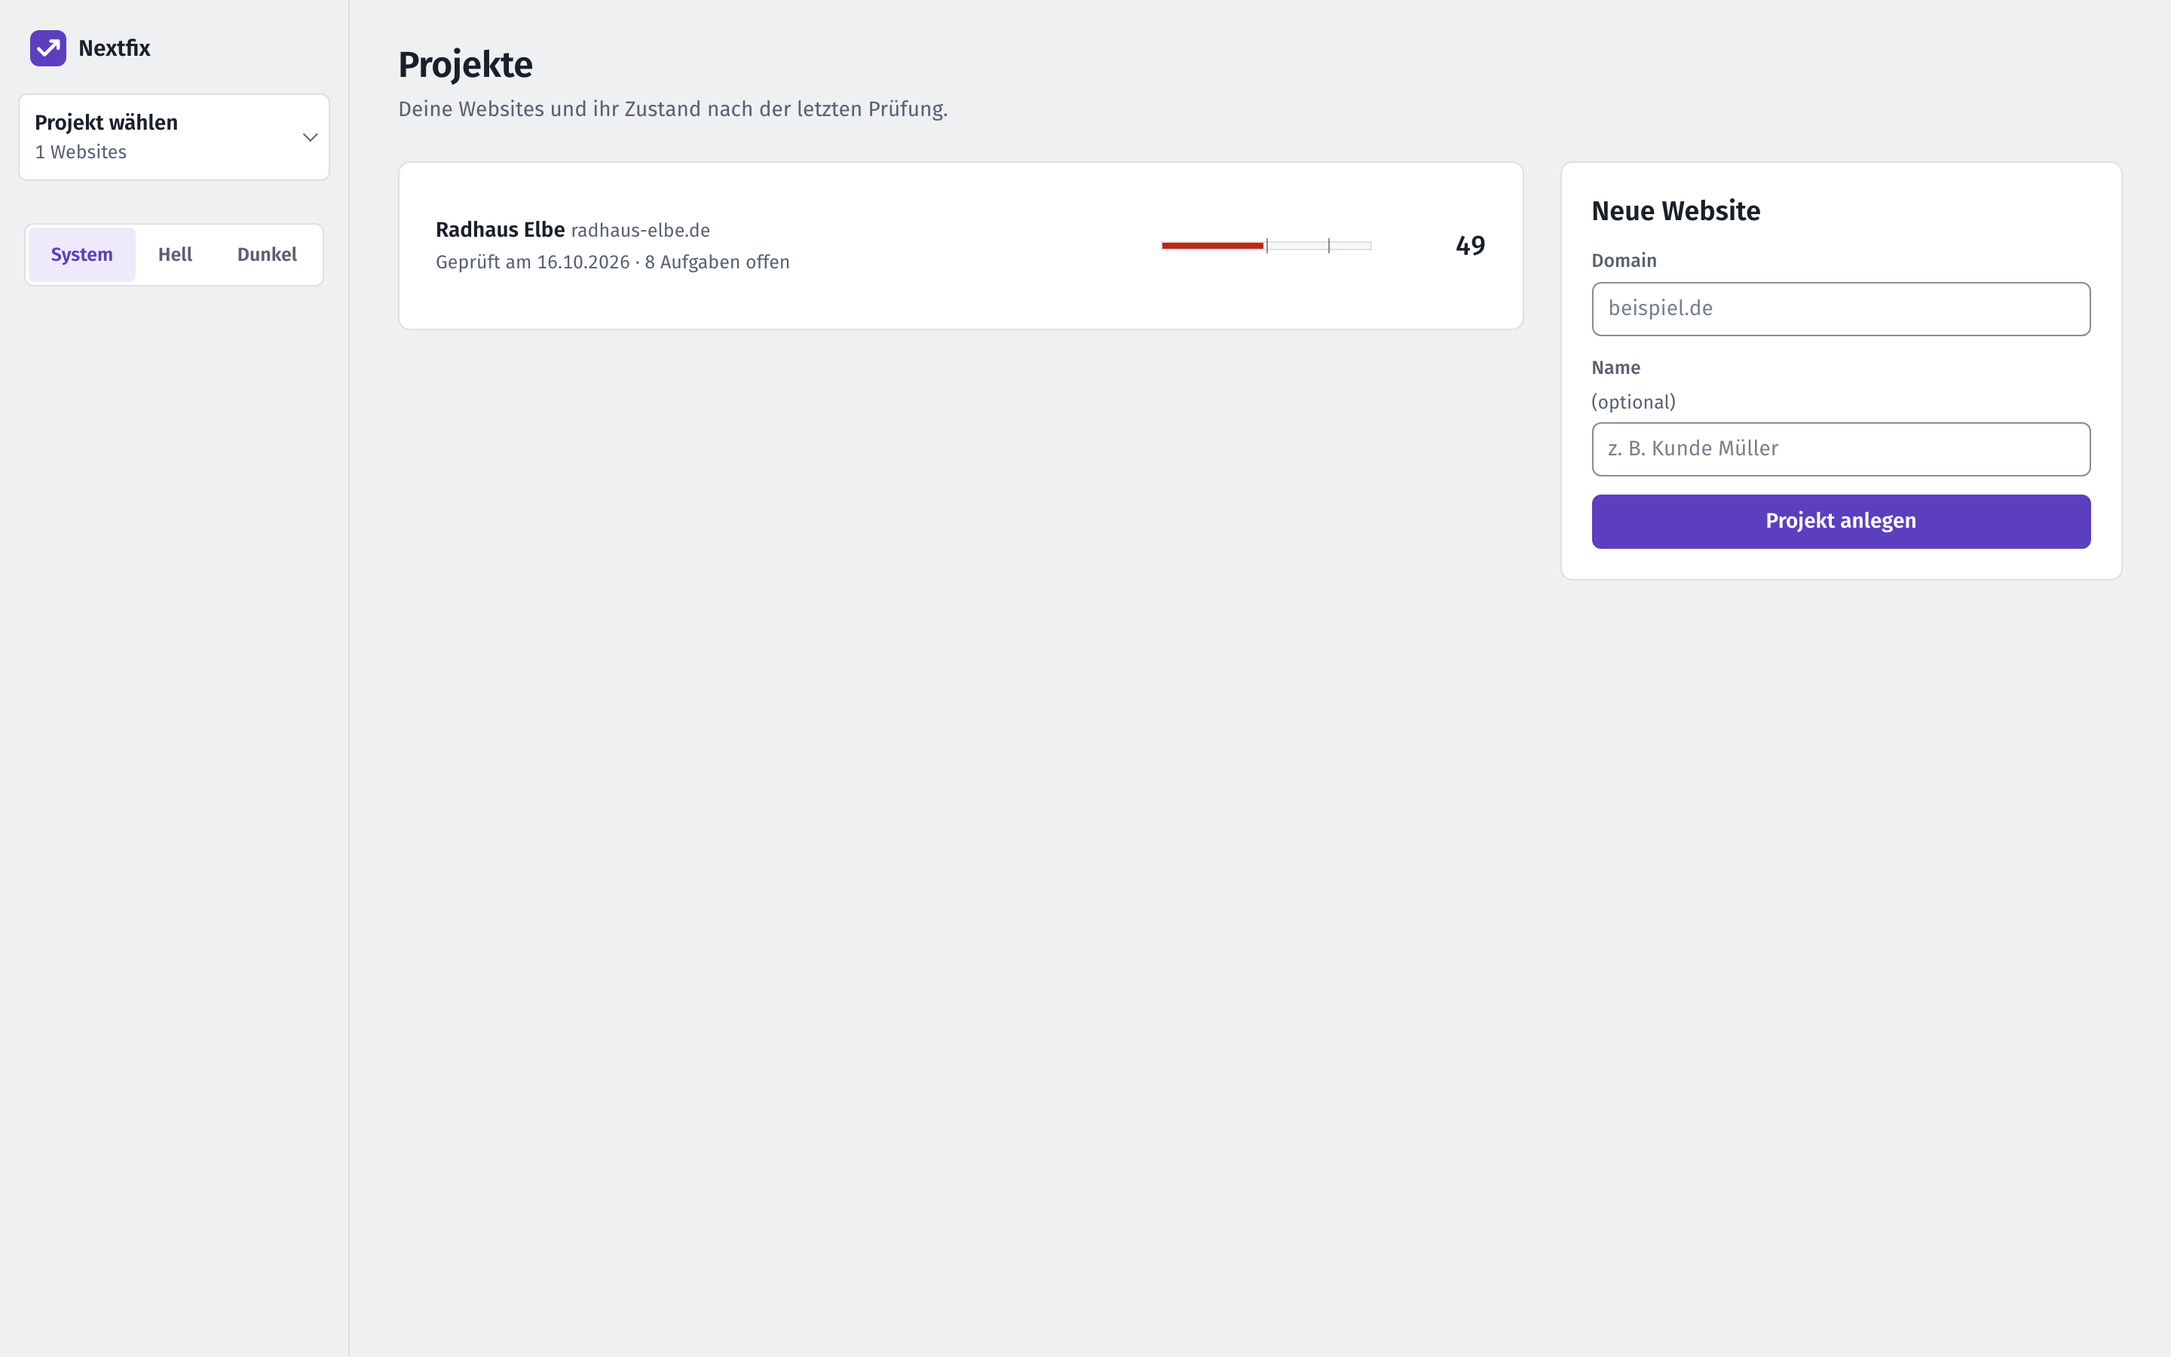
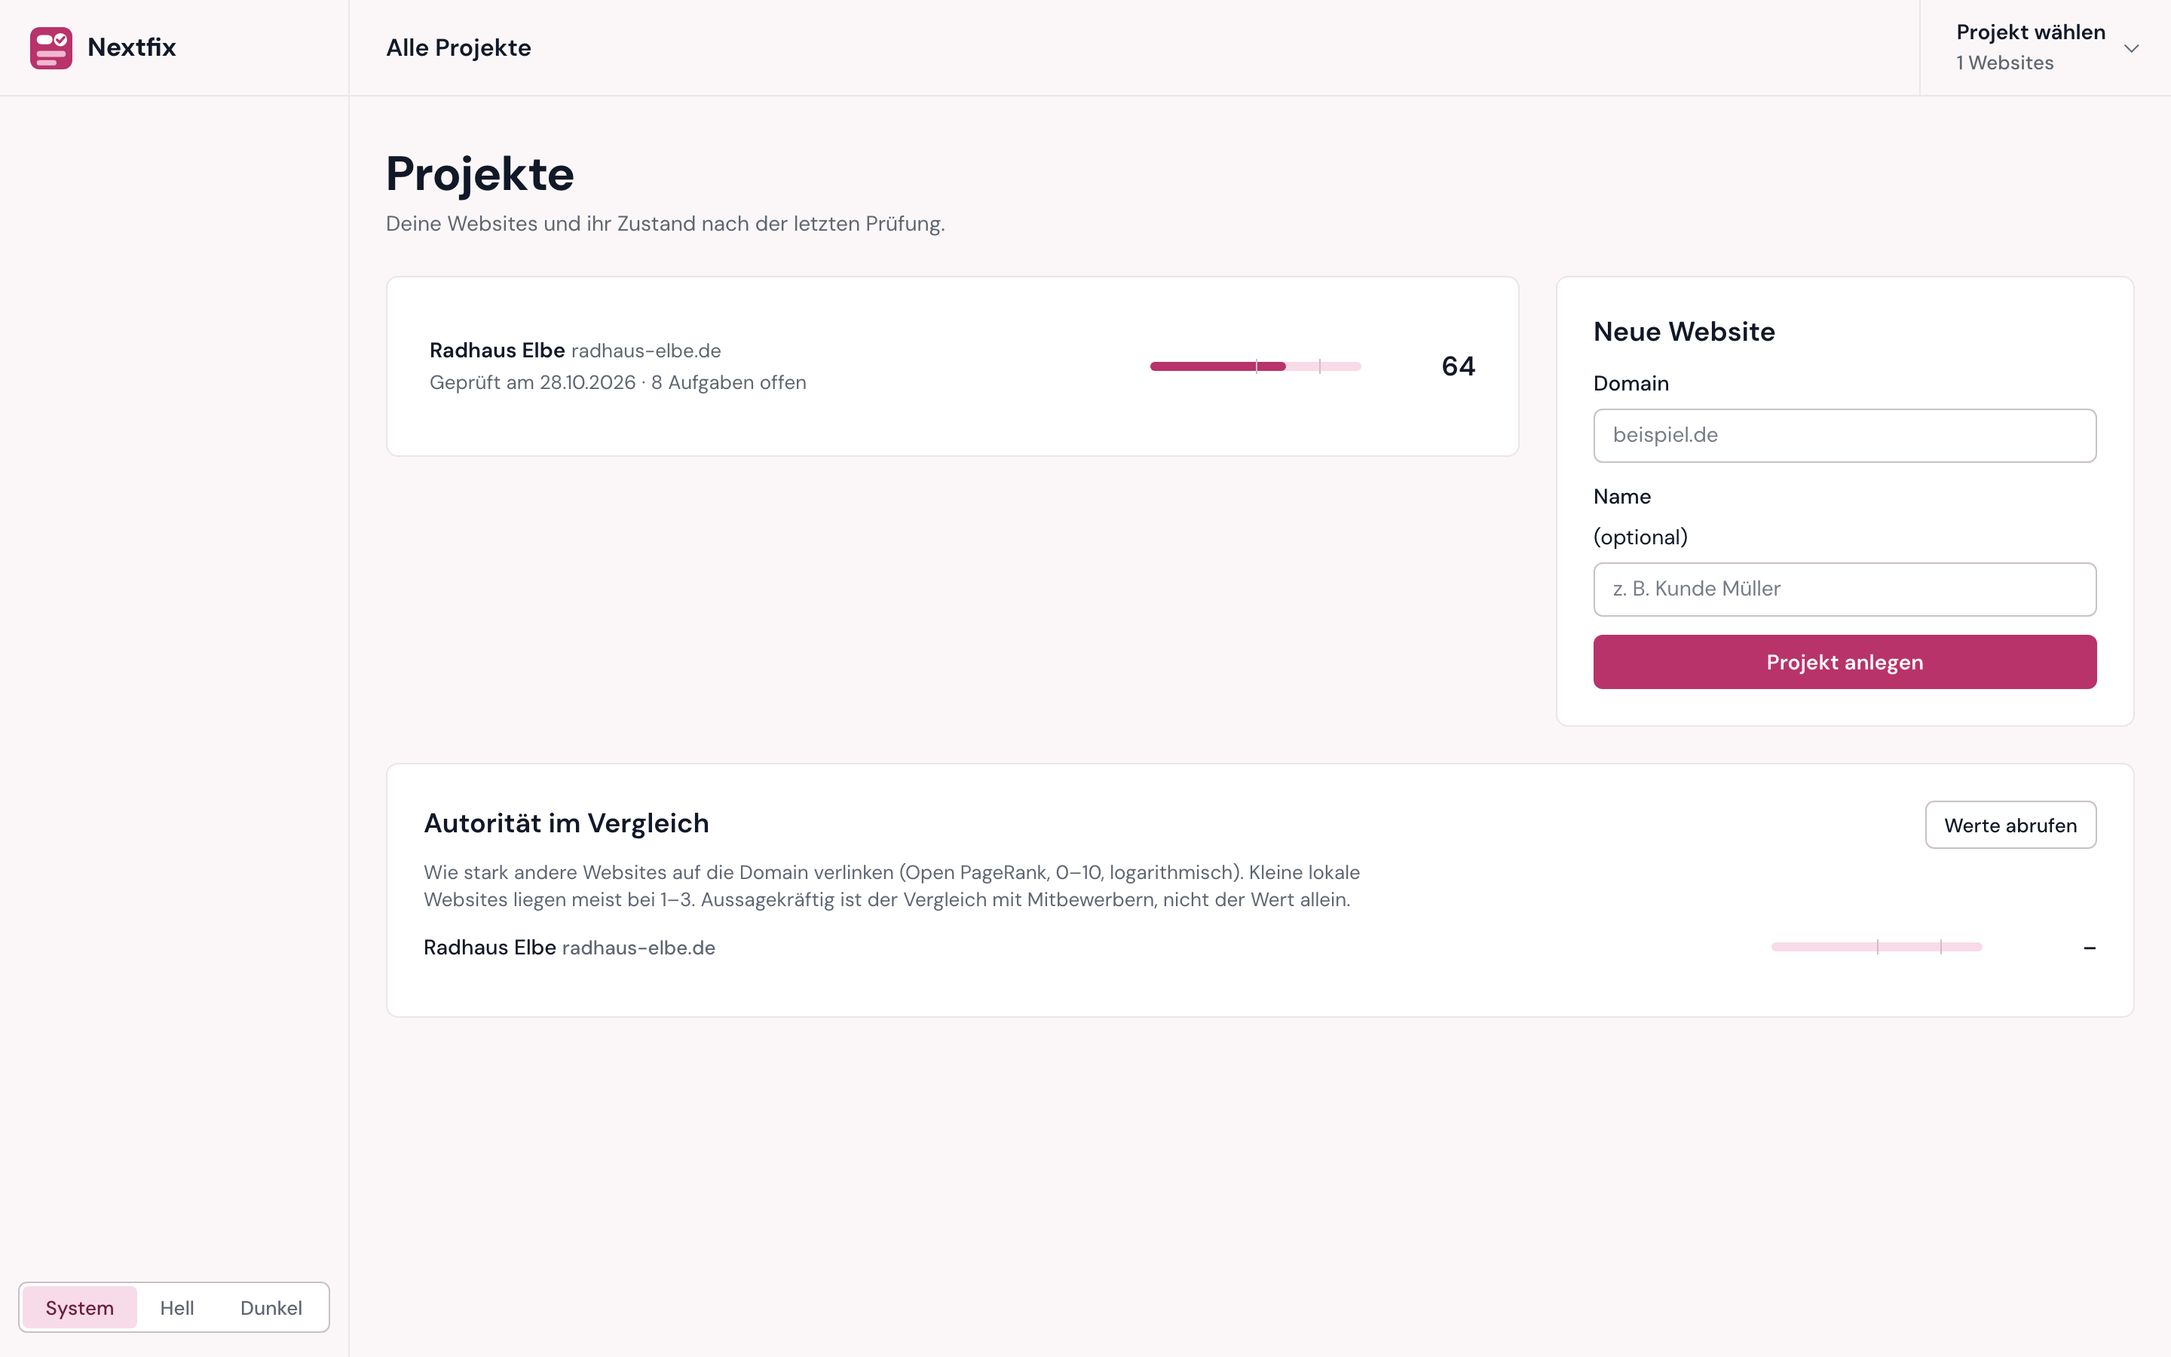
docs: new design system doc, changelog, regenerated README screenshots

diff --git a/docs/ui/design-system.md b/docs/ui/design-system.md
@@ -1,134 +1,34 @@
-# Design-System „Prüfstand“
+# Design-System „Akzent-Leiter“
 
-Stand: 16.10.2026 · Plan, noch nicht umgesetzt. Grundlage: `base.html`, `_uebersicht.html`, `issues.html`, `positionen.html`, `_onpage_ergebnis.html`, `vitals.html`.
+Eine Gestaltung für App, PDF-Bericht und Website. Quelle der Werte: `app/web/static/app.css` (Tokens ganz oben).
 
-## 1. Konzept
+## Idee
+- Die Markenfarbe **Himbeere `#b8336a`** steht nur auf kleinen Marken: der eine gefüllte Knopf, Datenbalken, der aktive Navigationspunkt (Punkt).
+- Flächen tragen die hellen Tints: `--akzent-flaeche` (Karten, Lead-Aufgabe), `--akzent-spur` (Spuren, aktive Navigationszeile), `--akzent-tinte` (Schrift darauf).
+- Signalfarben nur für Status, immer mit Form und Wort: ◆ dringend, ▲ wichtig, ● Feinschliff, ✓ gut. Keine Farbe pro Teilnote.
+- Kein Violett, kein Verlauf, kein Schatten im Ruhezustand (Schatten nur bei Menüs).
 
-Das Tool macht mit einer Website, was ein Prüfer mit einem Auto macht: messen, Mängel protokollieren, Grenzwerte zeigen, Plakette vergeben. Die Oberfläche sieht aus wie ein **ruhiges Messinstrument mit Prüfprotokoll**: Zahlen stehen auf Skalen mit sichtbaren Grenzwerten (nicht nur „73 %“, sondern *wo* die 80 liegt), Befunde lesen sich wie Protokollzeilen mit klarer Handlung. Der Akzent ist **Stempelviolett**, die Farbe der Prüfstempel, und gehört nur zu Aktionen und Auswahl, nie zu einem Status.
+## Tokens (hell / dunkel)
+| Token | hell | dunkel |
+| --- | --- | --- |
+| `--grund` | `#fbf7f8` | `#0e0e0f` |
+| `--flaeche` | `#ffffff` | `#161617` |
+| `--text` / `--gedaempft` | `#111827` / `#5f6672` | `#f4f4f5` / `#b4b4b8` |
+| `--linie` | `#ebe5e8` | `#2a2a2d` |
+| `--akzent` | `#b8336a` | `#e2759f` |
+| `--akzent-flaeche` / `--akzent-spur` | `#fdf2f7` / `#f8dbe8` | `#2a1520` / `#43202f` |
+| `--kritisch` / `--wichtig` / `--gut` | `#c4242a` / `#92400e` / `#247b50` | `#ff8f8a` / `#f0b25a` / `#52c78c` |
 
-## 2. Farben
+Dunkel ist neutrales Schwarzgrau mit derselben Leiter, kein Blau.
 
-Alle Werte mit Skript gerechnet (WCAG 2.1, Relativ-Luminanz). AA = 4,5:1 für Text, 3:1 für Bedienelemente/Icons.
+## Schrift
+**DM Sans**, lokal (`static/fonts/`, variabel, SIL OFL 1.1, `OFL-DM-Sans.txt`). Gewichte 400 bis 700; 700 nur für den Seitentitel. Größen: Titel 32 · Abschnitt 18 · Kennzahl 24 · Text 14 · klein 13. Tabellenzahlen tabellarisch. Monospace nur für Code und Pfade.
 
-| Token | Hell | Dunkel | Kontrast hell / dunkel |
-|---|---|---|---|
-| `--grund` (Seite, Seitenleiste) | `#EEF0F2` | `#14171D` | – |
-| `--flaeche` (Panels, Tabellen) | `#FFFFFF` | `#1C2028` | – |
-| `--flaeche-2` (Tabellenkopf, Hover) | `#F6F7F9` | `#242934` | – |
-| `--text` | `#1B1F2A` | `#E4E7EE` | 16,5 / 13,2 auf Fläche |
-| `--gedaempft` (Hilfstext, Achsen) | `#596070` | `#9BA2B1` | 6,3 / 6,4 (auf Grund 5,5 / 7,0) |
-| `--linie` (Trenner, nur deko) | `#DCDFE4` | `#323845` | 1,3 / 1,4 – bewusst schwach |
-| `--linie-stark` (Eingabefeld-Rand) | `#868D9A` | `#6E7687` | 3,3 / 3,6 ✓ 3:1 |
-| `--akzent` (Stempelviolett) | `#5B3FBF` | `#A897FF` | 7,2 / 6,6 |
-| `--akzent-flaeche` (Auswahl, aktiver Nav-Punkt) | `#EEEAFA` | `#2A2546` | Akzent darauf 6,1 / 5,9 |
-| `--auf-akzent` (Text auf Button) | `#FFFFFF` | `#14171D` | 7,2 / 7,3 |
-| `--kritisch` (bisher error) | `#C0261A` | `#FF7D6E` | 5,9 / 6,5 |
-| `--wichtig` (bisher warning) | `#985400` | `#EFB04A` | 5,8 / 8,5 |
-| `--hinweis` (bisher notice) | `#2D6688` | `#7FB5DA` | 6,2 / 7,4 |
-| `--gut` | `#1D7544` | `#5FCB8D` | 5,7 / 8,1 |
-| `--kritisch-flaeche` / `--wichtig-` / `--hinweis-` / `--gut-` | `#FBEAE8` `#FBF0DF` `#E6F0F6` `#E5F3EA` | `#3A2224` `#382D1C` `#1E2E3A` `#1C3127` | Statusfarbe darauf 5,1 / 5,2 / 5,4 / 5,0 bzw. 5,9 / 7,0 / 6,3 / 6,9 |
+## Rahmen
+Seitenleiste 232 px und Kopfleiste 64 px teilen einen Grund, getrennt nur durch 1-px-Linien. Kopfleiste: Domain links, Projektwahl rechts hinter einer Trennlinie. Auf dem Handy: 56 px, Menü-Knopf, Navigation klappt unter der Leiste auf.
 
-Regeln: Hinweis ist ein ruhiges Schieferblau, damit es nicht mit dem Violett der Aktionen verwechselt wird. Diagrammlinien: Hauptreihe `--akzent`, Vergleich `--gedaempft` gestrichelt. Kein Verlauf, keine Glow-Effekte.
+## Übersicht
+Lead-Block ist „Was jetzt tun“: die erste Aufgabe groß auf Tint-Fläche mit dem einzigen gefüllten Knopf, der Rest als Liste. Rechts eine Spalte (384 px): Website-Zustand als ruhige Zahl mit Spur (Striche bei 50 und 80), Teilnoten, Geprüfte Seiten.
 
-**Umschalter:** drei Zustände *System · Hell · Dunkel* als kleines Segment unten in der Seitenleiste. `data-theme` auf `<html>`, Wahl in `localStorage` (try/catch), Mini-Skript im `<head>` vor dem CSS gegen Aufblitzen.
-
-```css
-:root {
-  --grund:#EEF0F2; --flaeche:#FFFFFF; --flaeche-2:#F6F7F9; --text:#1B1F2A; --gedaempft:#596070;
-  --linie:#DCDFE4; --linie-stark:#868D9A; --akzent:#5B3FBF; --akzent-flaeche:#EEEAFA; --auf-akzent:#FFFFFF;
-  --kritisch:#C0261A; --wichtig:#985400; --hinweis:#2D6688; --gut:#1D7544;
-  --kritisch-flaeche:#FBEAE8; --wichtig-flaeche:#FBF0DF; --hinweis-flaeche:#E6F0F6; --gut-flaeche:#E5F3EA;
-  color-scheme: light;
-}
-@media (prefers-color-scheme: dark) { :root:not([data-theme="light"]) { /* = Block unten */ } }
-:root[data-theme="dark"] {
-  --grund:#14171D; --flaeche:#1C2028; --flaeche-2:#242934; --text:#E4E7EE; --gedaempft:#9BA2B1;
-  --linie:#323845; --linie-stark:#6E7687; --akzent:#A897FF; --akzent-flaeche:#2A2546; --auf-akzent:#14171D;
-  --kritisch:#FF7D6E; --wichtig:#EFB04A; --hinweis:#7FB5DA; --gut:#5FCB8D;
-  --kritisch-flaeche:#3A2224; --wichtig-flaeche:#382D1C; --hinweis-flaeche:#1E2E3A; --gut-flaeche:#1C3127;
-  color-scheme: dark;
-}
-```
-
-## 3. Schrift
-
-**Fira Sans** + **Fira Sans Condensed** (eine Familie, zwei Breiten), SIL OFL 1.1.
-- Von Erik Spiekermann (Berlin) aus der FF-Meta-Tradition: gebaut für Lesbarkeit auf Bildschirmen und in kleinen Größen, deutsche Typografie-Schule, saubere Umlaute und ß, ẞ im latin-ext-Teil.
-- Tabellarische Ziffern über `font-variant-numeric: tabular-nums` (Feature `tnum`) – nach Einbau mit einer Testzeile „111 / 888“ prüfen.
-- Condensed für dichte Tabellen (URL-Spalte, Kennzahlen-Spalten) und Skalen-Beschriftung: mehr Inhalt pro Zeile ohne Monospace-Look.
-
-**Quelle (fontsource über jsDelivr, einmal herunterladen, dann unter `app/web/static/fonts/` ausliefern):**
-`https://cdn.jsdelivr.net/npm/@fontsource/fira-sans@5.2.7/files/fira-sans-{subset}-{gewicht}-{stil}.woff2`
-`https://cdn.jsdelivr.net/npm/@fontsource/fira-sans-condensed@5.2.7/files/fira-sans-condensed-{subset}-{gewicht}-normal.woff2`
-- subset: `latin` (ä ö ü ß, ~24 KB je Datei) + `latin-ext` mit `unicode-range` (nur bei Bedarf geladen). URLs am 16.10. getestet (HTTP 200).
-- Benötigt: Fira Sans 400, 400-italic, 500, 600 · Condensed 400, 500. Zusammen ~150 KB. `font-display: swap`. Lizenzdatei `OFL.txt` mit ins Repo.
-
-**Skala** (Basis 14 px für die App, Verhältnis ~1,2):
-
-| Rolle | Größe / Zeile | Gewicht | Einsatz |
-|---|---|---|---|
-| Messwert groß | 44 / 48 | 500, tnum | nur Health auf der Übersicht |
-| Seitentitel | 24 / 30 | 600 | Projektname |
-| Abschnitt | 18 / 24 | 600 | „Was jetzt tun“, „Je Seite“ |
-| Kennzahl | 28 / 32 | 500, tnum | Kennzahlen-Leiste |
-| Fließtext | 14 / 21 | 400 | Erklärungen, max. 72 Zeichen Breite |
-| Tabelle | 13 / 18 | 400, tnum | Condensed in URL- und Zahlen-Spalten |
-| Klein / Label | 12,5 / 16 | 500 | Feld-Labels, Achsen, Tabellenkopf – Satzschreibung, keine Versalien |
-
-## 4. Layout
-
-```
-┌────────────┬──────────────────────────────────────────────┐
-│ Projekt ▾  │ beispiel.de        Crawl vom 15.10., 214 Seiten │
-│            │──────────────────────────────────────────────│
-│ Website    │ [ Messskala Health ═════════|══▲═══ 73 ]     │
-│  Übersicht │ Kennzahlen-Leiste │ │ │ │                     │
-│  Befunde 42│──────────────────────────────────────────────│
-│  Seiten    │ Was jetzt tun (8 Spalten) │ Bereiche (4 Sp.) │
-│  Ladezeit  │                           │                  │
-│ Sichtbark. │                                              │
-│ Inhalt     │                                              │
-│ ◐ System   │                                              │
-└────────────┴──────────────────────────────────────────────┘
-```
-- **Seitenleiste** 232 px, gleiche Farbe wie `--grund` (kein dunkler Navy-Balken), Gruppen „Website prüfen“, „Sichtbarkeit“, „Inhalt“; Gruppentitel 12,5 px gedämpft. Aktiver Punkt: `--akzent-flaeche` + Text `--akzent`. Unter 900 px wird sie zur Kopfleiste mit Menü-Button.
-- **Inhalt** linksbündig, max. 1240 px, 12-Spalten-Raster, Spaltenabstand 24 px, Seitenrand 32 px (mobil 16 px).
-- **Abstände** (4er-Basis): 4 · 8 · 12 · 16 · 24 · 32 · 48. Innerhalb von Komponenten 8–16, zwischen Abschnitten 32–48.
-- **Radien mit Hierarchie:** Panel 8 px · Button/Feld 6 px · Status-Marke 3 px (gestempeltes Etikett, keine Pille) · Messskala 0 px (Instrument).
-- **Schatten:** nein. Trennung über Fläche gegen Grund + 1 px `--linie`. Einzige Ausnahme: Popover/Dialog `0 8px 24px rgb(20 23 29 / .18)`. Dunkel: höhere Ebene = hellere Fläche.
-
-## 5. Komponenten
-
-- **Kennzahl:** keine Einzelkarten. Eine Kennzahlen-Leiste = ein Panel, durch senkrechte Linien geteilt. Je Zelle: Label (12,5, gedämpft) · Wert (28, tnum) · Veränderung als Pfeil + Vorzeichen + Wort („▲ 3 besser“), Farbe gut/kritisch nur zusätzlich. Ø Position: kleiner = besser, Text sagt das.
-- **Tabelle:** Zeilenhöhe 36 px (dicht: 30 px), Kopf `--flaeche-2`, klebt beim Scrollen, Satzschreibung. Zahlen rechtsbündig, tnum, Einheit gedämpft („2,4 s“). URLs in Condensed, mittig gekürzt (`/ratgeber/…/seo-check`), voller Wert im `title`. Kein Zebra; Hover-Zeile `--flaeche-2`. Ganze Zeile klickbar, wenn es eine Detailseite gibt. Breite Tabellen scrollen in ihrem Container, nie die Seite.
-- **Status-Marke (nie nur Farbe):** Form + Wort + Farbe. Kritisch ◆ · Wichtig ▲ · Hinweis ● · Gut ✓. Marke: getönte Statusfläche, 3 px Radius, Symbol in Statusfarbe, Wort in `--text`. Deutsche Wörter statt „error/warning/notice“. In Tabellen reicht Symbol + `aria-label`.
-- **Health/Fortschritt:** Messskala (siehe 6). Kleinform für Bereiche: 6 px hohe Leiste ohne Rundung, Füllung in Statusfarbe der Stufe, Grenzstriche bei 50 und 80 als 1-px-Ticks über der Leiste, Wert rechts daneben.
-- **Buttons:** Primär = `--akzent` gefüllt, `--auf-akzent`, 36 px hoch, 600. Sekundär = `--flaeche` mit 1 px `--linie-stark`, Text `--text`. Leise = nur Text in `--akzent`. Gefährlich (Löschen) = sekundär mit Text `--kritisch`, immer mit Bestätigung. Pro Bereich höchstens ein primärer Button. Beschriftung = Verb + Objekt („Crawl starten“, „Testdaten löschen“), kein Pfeil.
-- **Formulare:** Label über dem Feld, Hilfetext darunter (gedämpft), Felder 36 px, Rand `--linie-stark`, Fokus: Rand `--akzent` + 3 px Ring `--akzent-flaeche`. Fehler: Rand `--kritisch` + Zeile „◆ Domain fehlt – z. B. beispiel.de“. Filterleisten als eine Zeile über der Tabelle, nicht in eigener Karte.
-- **Tabs:** nur für Ansichten *innerhalb* einer Seite (Google/Bing, Mobil/Desktop). Text gedämpft, aktiv `--text` + 2 px Unterstrich `--akzent`, Zähler als kleine graue Zahl. Hauptnavigation wandert in die Seitenleiste.
-- **Aufgaben-Zeile („Was jetzt tun“):** echte Reihenfolge nach Wirkung, daher nummeriert. Aufbau: Nr. (tnum, gedämpft) · Status-Symbol · Handlung als Satz („Fehlende Seitentitel ergänzen“) · darunter ein Satz *warum* · rechts „17 Seiten“ und Button „Seiten ansehen“. Aufklappbar für die Trefferliste (vorhandenes HTMX-`details`). Erledigt = durchgestrichen nur bis zum nächsten Crawl, dann prüft der Crawl selbst.
-- **Leere Zustände:** ein Satz, was fehlt, ein Satz, was passiert, ein Button. Beispiel: „Noch kein Crawl für beispiel.de. Der erste Durchlauf dauert bei 200 Seiten etwa 3 Minuten. [Crawl starten]“. Gute Leere („Keine kritischen Befunde“) mit ✓ in `--gut`, ruhig, ohne Konfetti. Fehler sagen Ursache + Lösung, keine Entschuldigung.
-- **Diagramme:** Linie 2 px, Achsen und Raster in `--linie`, Beschriftung 12,5 gedämpft. Position-Achse umgekehrt mit Hinweis „oben = besser“ direkt an der Achse.
-
-## 6. Das eine einprägsame Element: die Messskala
-
-Health-Score der Übersicht als breites, liegendes Messband über die volle Inhaltsbreite statt Prozent-Karte oder Donut: Millimeter-Ticks (alle 5 kurz, alle 10 lang, Zahlen bei 0/50/80/100 in Condensed), Zonen unter dem Band als dünne Streifen in Kritisch/Wichtig/Gut-Fläche, darüber ein Zeiger ▼ mit dem Wert in 44 px. Links daneben ein Satz: „73 von 100 – 7 Punkte bis ‚gut‘“. Der Vorwert des letzten Crawls bleibt als hohler Zeiger ▽ stehen, so sieht man den Fortschritt ohne Diagramm.
-Dieselbe Skala gibt es klein für Core Web Vitals (LCP mit Zonen 2,5 s / 4 s) und für On-Page- und KI-Score. Das ist auch das Bild für die GitHub-Screenshots.
-Einzige Bewegung im Tool: Beim ersten Laden fährt der Zeiger einmal vom Vorwert zum neuen Wert (400 ms, ease-out, aus bei `prefers-reduced-motion`).
-
-**Bewusst ruhig:** Seitenleiste, Tabellen, Formulare, Buttons, Diagramme. Keine Icons in der Navigation außer Statussymbolen, keine Hover-Animationen, keine Illustrationen.
-
-## 7. Selbstkritik: was Standard gewesen wäre
-
-| Erster Reflex (generisch) | Überarbeitet | Warum |
-|---|---|---|
-| Inter oder IBM Plex | Fira Sans + Condensed | Inter ist der KI-Standard. Fira passt zur deutschen Info-Design-Tradition und bringt eine schmale Breite für Tabellen mit. |
-| Akzent Blau `#2563EB` | Stempelviolett `#5B3FBF` | Blau kollidiert mit „Hinweis“ und sieht nach jedem SaaS aus. Violett kommt aus dem Prüfstempel und ist von allen Statusfarben klar getrennt. |
-| Fünf gleiche KPI-Karten mit 10 px Radius und grauem Schatten | Eine geteilte Kennzahlen-Leiste, Radien gestuft, keine Schatten | Genau das „SaaS-Karten-Kit“; die Kennzahlen gehören zusammen, also ein Container. |
-| Health als Donut/Tacho | Liegende Messskala mit Grenzwerten und Vorwert | Ein Donut zeigt nur den Wert; die Skala zeigt zusätzlich, wo „gut“ anfängt und wie weit man gekommen ist. |
-| Dunkle Navy-Seitenleiste | Seitenleiste im Grundton | Vermeidet den Standard-Admin-Look und lässt die Messskala das Auffälligste bleiben. |
-| Pillen-Badges „error“ in Vollfarbe | Eckige Etiketten mit Form + deutschem Wort, getönt | Zugänglich ohne Farbe, verständlich für Nicht-SEOs, weniger laut auf langen Listen. |
-| Dark Mode `#0B0B0B` + Neonakzent | Blaugrafit `#14171D` mit gedämpftem Violett | Kein Schwarz+Neon-Klischee, angenehm bei langen Tabellen. |
-| Englische Tabs „Issues“, „Core Web Vitals“ | „Befunde“, „Ladezeit“ (Fachbegriff klein dahinter) | Der Nutzer ist kein SEO-Profi; Fachwort nur als Zusatz. |
-
-Noch offen: Ob ◆/▲/● in Fira Sans selbst enthalten sind, beim Einbau prüfen; sonst als kleine Inline-SVGs.
+## App-Icon
+Entwürfe in `static/icon-varianten/` (Vorschau: `vorschau.html`). `static/logo.svg` ist eine Kopie der gewählten Variante; Austausch ist eine Datei.

diff --git a/CHANGELOG.md b/CHANGELOG.md
@@ -2,6 +2,14 @@
 
 All notable changes to Nextfix. Dates are in ISO format (YYYY-MM-DD).
 
+## Unreleased
+
+### Changed
+- New look for the web UI and the PDF report: raspberry accent ladder instead of violet, DM Sans (local) instead of
+  Fira Sans, ruled sidebar and top bar, the next task as the lead block of the overview, the website score as one calm
+  number. Light and dark theme. Routes, forms and texts are unchanged.
+- New app icon (three drafts in `app/web/static/icon-varianten/`, draft 1 is in use for now).
+
 ## 0.2.3 – 2026-10-28
 
 ### Added
